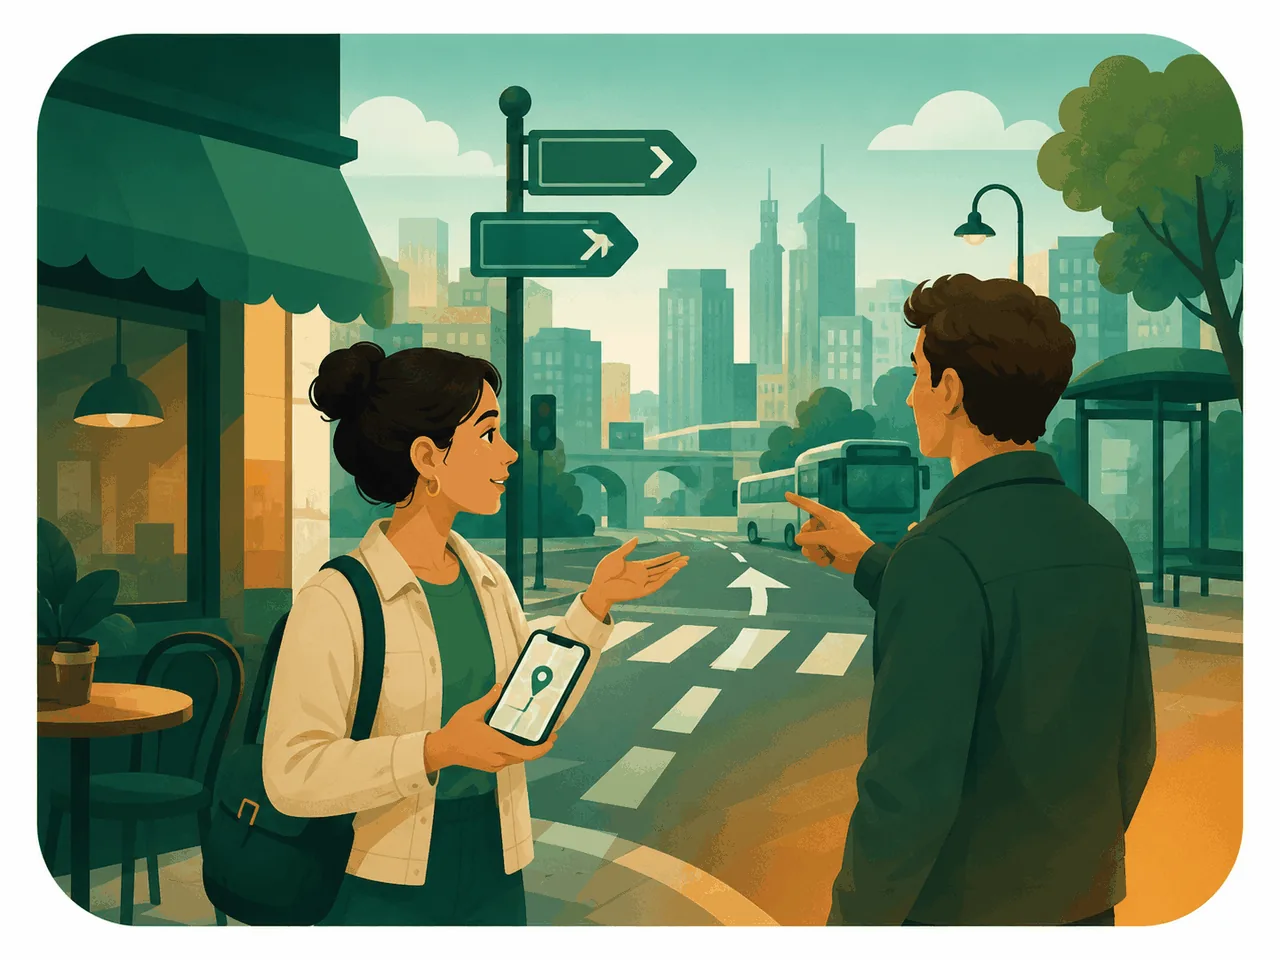
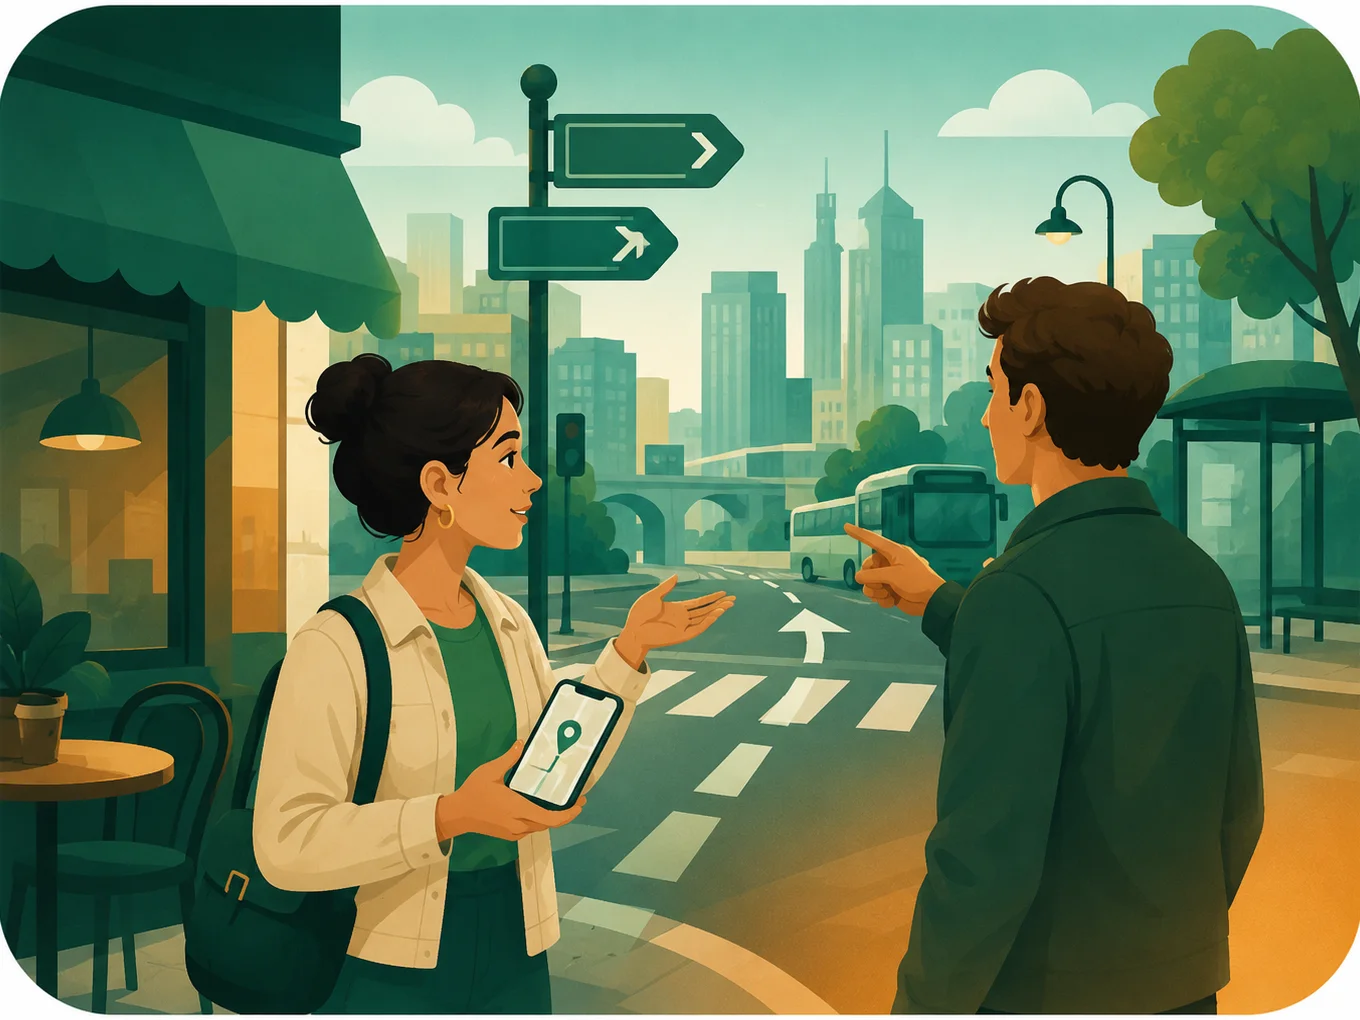
Three lesson heroes / coach fixed in one wave
1. OGE Mock Mix 01: hero-cover.webp restored from 2026-06-30 original
   (commit 96e5f6fb, 1.66 MB PNG). The 2026-07-02 «Optimize images for
   Pages deployment» commit compressed it to 333 KB and baked artifacts
   («поплывшее лицо»), then the mass PNG→WebP batch (aa24ff12) locked
   that in. Re-encoded original PNG to webp q85 (92 KB) + bumped cache
   buster ?v=2 in the .hero-bg CSS.

2. Around the City: hero.webp restored from 2026-06-21 original
   (commit 13ca186b, 1.93 MB PNG). Same «Optimize images…» commit
   compressed it to 400 KB with artifacts. Same recovery + also cropped
   the illustration's white border (ffmpeg crop=1360:1020:44:33) so
   the image fills the hero-card edge-to-edge (Maria: «сбоку 2 серые
   полосы»). +cache buster ?v=2.

3. Russia My Homeland: lab-speech-tester Speech Coach section was
   rendering in cream+cream (#f3eee5 text on #fff card) — unreadable,
   Maria described it as «тренажёр с голосом вылезает» / «усмири и
   подгони». Applied the same scoped palette override pattern used
   earlier on EPL: rich navy #0e1a2e card + cream #f0efe6 text + gold
   #c9a35c accents inside .lab-coach-section ONLY. Width was already
   1240px matching other blocks; contrast was the real bug.

diff --git a/lingua-boost-lab/b1/russia-my-homeland/index.html b/lingua-boost-lab/b1/russia-my-homeland/index.html
@@ -1191,6 +1191,24 @@ updateDots();
 <script src="../../assets/lab-coach-persist.js?v=1" defer></script>
 <script src="../../assets/lab-ai-feedback.js?v=6" defer></script>
 <script src="../../assets/lab-pilot.js?v=3" defer></script>
+
+<!-- Speech Coach палитра · scoped override 2026-07-12
+     lab-speech-tester.js читает var(--card, fallback) и var(--text, fallback);
+     у Russia --card=#fff (light) без --text → color падает в #f3eee5 (cream)
+     на белом фоне = блёклый нечитаемый блок. Скопим тут rich-navy палитру
+     ТОЛЬКО внутри .lab-coach-section, остальной light-lab урок сохраняется. -->
+<style id="russia-coach-palette-2026-07-12">
+  .lab-coach-section{--card:#0e1a2e !important;--text:#f0efe6 !important;--surface:#1a2842 !important;--accent:#c9a35c !important;--line:rgba(201,163,92,.22) !important}
+  .lab-coach-section{background:linear-gradient(135deg,#1a2842 0%,#0e1a2e 100%) !important;color:#f0efe6 !important;border:1px solid rgba(201,163,92,.28) !important}
+  .lab-coach-section .lc-transcript{background:#06111f !important;color:#f0efe6 !important}
+  .lab-coach-section .lc-crit .lc-crit-text{color:#f0efe6 !important}
+  .lab-coach-section .lc-crit .lc-crit-hint{color:#c9a35c !important;opacity:.85}
+  .lab-coach-section .lab-coach-toggle h2{color:#c9a35c !important}
+  .lab-coach-section .lc-crit-h{color:#c9a35c !important}
+  .lab-coach-section .lc-stat .lc-lbl{color:#c9a35c !important}
+  .lab-coach-section .lc-stat .lc-val{color:#f0efe6 !important}
+</style>
+
 <script type="application/json" id="lab-coach-config">
 {
   "task": "Tell us about your homeland — Russia. Talk for 2-3 minutes about its places, people, traditions and why it matters to you.",

diff --git a/lingua-boost-lab/b1/oge-mock-mix-01/index.html b/lingua-boost-lab/b1/oge-mock-mix-01/index.html
@@ -40,7 +40,7 @@ body{background:var(--bg);font-family:var(--body);color:var(--text);min-height:1
 .hero-card{position:relative;border:1px solid var(--line-2);border-radius:24px;overflow:hidden;
   background:linear-gradient(135deg,#ffffff 0%,#eef4fb 45%,#dee9f6 100%);
   box-shadow:0 12px 40px rgba(15,40,80,.10);padding:clamp(28px,4.5vw,52px) clamp(22px,4vw,52px);min-height:420px}
-.hero-bg{position:absolute;inset:0;background:url("./img/hero-cover.webp") center/cover no-repeat;opacity:1;z-index:0;filter:saturate(1.15) brightness(1.05)}
+.hero-bg{position:absolute;inset:0;background:url("./img/hero-cover.webp?v=2") center/cover no-repeat;opacity:1;z-index:0;filter:saturate(1.15) brightness(1.05)}
 .hero-bg::after{content:"";position:absolute;inset:0;background:linear-gradient(180deg,rgba(255,255,255,.20) 0%,rgba(255,255,255,.42) 55%,rgba(244,248,253,.62) 100%)}
 .section-img{display:block;width:100%;height:auto;border-radius:12px;border:1px solid var(--line);margin:0 0 14px;box-shadow:0 6px 18px rgba(15,40,80,.10)}
 .hero-deco{position:absolute;font-size:9rem;opacity:.10;pointer-events:none;line-height:1}

diff --git a/lingua-boost-lab/a1/around-the-city/index.html b/lingua-boost-lab/a1/around-the-city/index.html
@@ -78,7 +78,7 @@ a{color:inherit;text-decoration:none}
 @media(max-width:820px){:root{--demo-top-width:min(100% - 20px,1240px)}}
 .hero{width:var(--demo-top-width);max-width:1240px;margin:32px auto 12px;padding:0 12px}
 .hero-card{position:relative;border:1px solid var(--line);border-radius:24px;overflow:hidden;
-  background-image:url('./assets/hero.webp');background-size:cover;background-position:center;background-repeat:no-repeat;
+  background-image:url('./assets/hero.webp?v=2');background-size:cover;background-position:center;background-repeat:no-repeat;
   box-shadow:0 4px 24px rgba(0,0,0,.08);min-height:520px;color:#fff}
 .hero-card::before{content:"";position:absolute;inset:0;background:linear-gradient(120deg,rgba(8,14,32,.55) 0%,rgba(8,14,32,.30) 45%,rgba(40,30,15,.20) 100%);z-index:1}
 .hero-card > *{position:relative;z-index:2}
